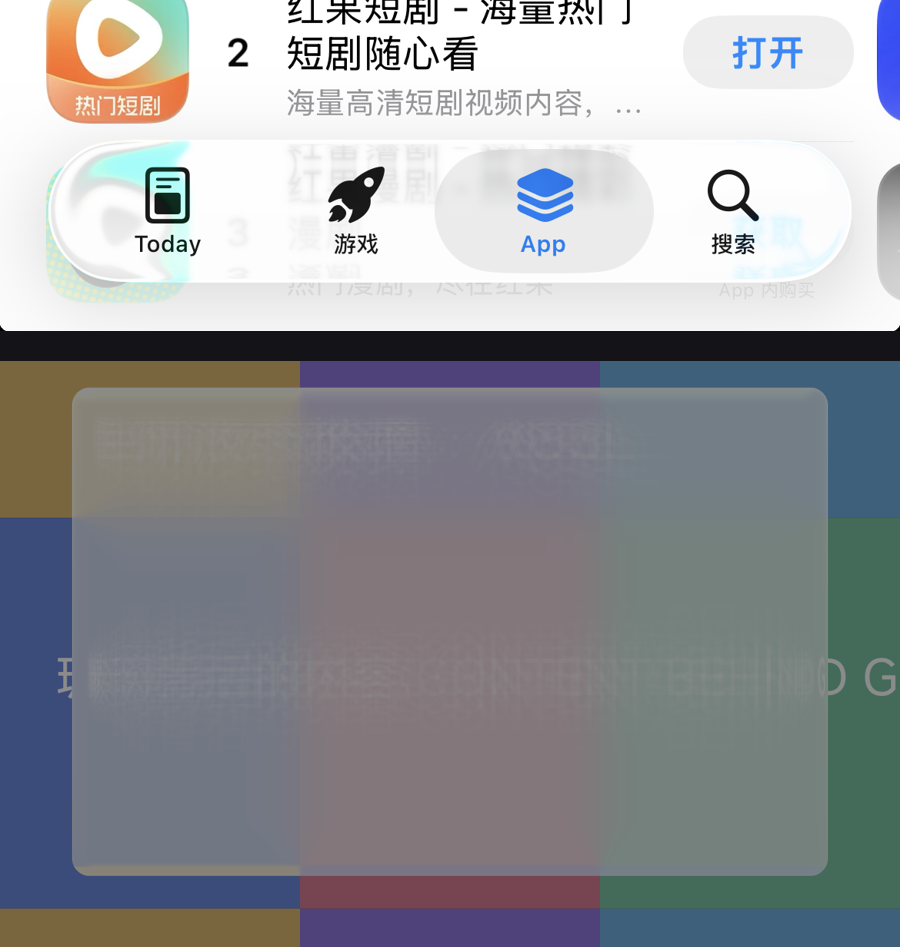
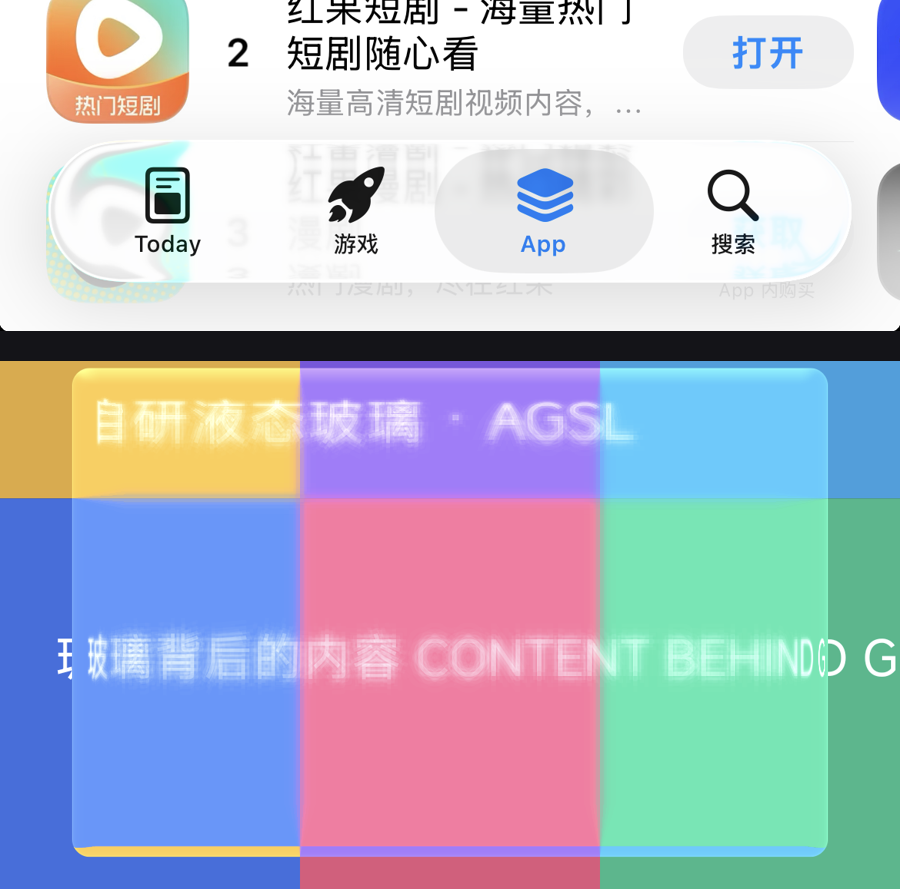
fix(glass): 四周对称折射(去顶部加权) + 内容可见(blur 核 3×→1× + frost 大降)
用户纠正三点：① 不是顶部亮（我加了错的顶部加权）——iOS 是**四周对称折射**；② 折射带以内**不折射、内容能看清**；
③ 我们**内容全糊没了**。修：去 topW（对称 rim）；模糊核最大半径 3×blur≈84px → blur（br=blur*0.55*e，
环 0.5/1.0/1.6×br）⇒ 内容可辨认；frost 0.62→0.16、去饱和 0.62→0.30。真机并排(glass-vs-ios.png)：
内容清晰可读 + 四周边缘对称折射/高光。

diff --git a/hosts/android/app/src/main/java/dev/proteus/layoutcore/runtime/GlassMaterial.java b/hosts/android/app/src/main/java/dev/proteus/layoutcore/runtime/GlassMaterial.java
@@ -70,35 +70,33 @@ public final class GlassMaterial {
             + "    float bend = circleMap(1.0 - ec) * refractDepthPx;\n"
             + "    bend *= smoothstep(1.0, 0.75, e);\n"                          // 内缘 C1 淡出（防环痕）
             + "    float2 sp = coord + n * bend;\n"                              // ★向外采样（卷边界外内容进边缘）
-            // ③ 模糊**按 e 键控**：边缘锐、中心糊（先折后糊）——加权核（归一保亮度）
-            + "    float br = max(blur, 0.0) * e;\n"
-            + "    half4 acc = content.eval(sp) * 0.12;\n"
-            + "    float w1 = 0.062, w2 = 0.036, w3 = 0.012;\n"                   // 中心+8向×(w1+w2+w3)：总权重 = 1.0（保亮度）
+            // ③ 模糊**按 e 键控**（边缘锐、中心糊）——★核最大半径 = blur（此前 3×blur≈84px ⇒ 内容全糊没）
+            + "    float br = max(blur, 0.0) * e * 0.55;\n"
+            + "    half4 acc = content.eval(sp) * 0.20;\n"
+            + "    float w1 = 0.058, w2 = 0.030, w3 = 0.012;\n"                   // 中心0.20 + 8向×(w1+w2+w3)=0.80：总权重 = 1.0
             + "    for (int k = 0; k < 8; k++) {\n"
             + "        float a = float(k) * 0.7853981;\n"
             + "        float2 dir = float2(cos(a), sin(a));\n"
-            + "        acc += content.eval(sp + dir * br) * w1;\n"
-            + "        acc += content.eval(sp + dir * (br * 2.0)) * w2;\n"
-            + "        acc += content.eval(sp + dir * (br * 3.0)) * w3;\n"
+            + "        acc += content.eval(sp + dir * (br * 0.5)) * w1;\n"
+            + "        acc += content.eval(sp + dir * br) * w2;\n"
+            + "        acc += content.eval(sp + dir * (br * 1.6)) * w3;\n"
             + "    }\n"
             + "    half4 col = acc;\n"
-            // ④ 磨砂去饱和 + 提彩 + 微对比
+            // ④ 去饱和（frost 冲淡色彩）+ 提彩 + 微对比
             + "    half lum = dot(col.rgb, half3(0.299, 0.587, 0.114));\n"
-            + "    col.rgb = mix(col.rgb, half3(lum), half(0.62));\n"
+            + "    col.rgb = mix(col.rgb, half3(lum), half(0.30));\n"
             + "    col.rgb = mix(half3(lum), col.rgb, half(saturation));\n"
             + "    col.rgb = (col.rgb - 0.5) * half(contrast) + 0.5;\n"
-            // ⑤ tint + 磨砂白 frost（iOS 更奶白去饱和）
+            // ⑤ tint + 少量磨砂白（★iOS 内容仍**可辨认**——frost 只轻提亮不透死）
             + "    col.rgb = mix(col.rgb, col.rgb * half3(tint.rgb) * 2.0, half(tint.a));\n"
-            + "    col.rgb = mix(col.rgb, half3(0.99, 0.995, 1.0), half(0.62 + tint.a * 0.3));\n"
-            // ⑥ 光照：Fresnel + 法线·光源（双瓣）；★顶部加权（光来自上方——侧/底几乎不亮 = iOS）
-            + "    float uvTop = clamp((coord.y - rectOrigin.y) / size.y, 0.0, 1.0);\n"
-            + "    float topW = 0.15 + 0.85 * (1.0 - uvTop);\n"
+            + "    col.rgb = mix(col.rgb, half3(0.99, 0.995, 1.0), half(0.16 + tint.a * 0.2));\n"
+            // ⑥ 光照：Fresnel + 法线·光源（双瓣）；**四周对称**（无顶部加权）
             + "    float cosI = inversesqrt(1.0 + slope * slope);\n"
             + "    float f0 = (1.5 - 1.0) / (1.5 + 1.0); f0 *= f0;\n"
             + "    float fres = f0 + (1.0 - f0) * pow(max(1.0 - cosI, 0.0), 5.0);\n"
             + "    float facing = max(dot(n, normalize(lightDir)), 0.0);\n"
             + "    float bevelMask = 1.0 - smoothstep(0.0, 0.35, e);\n"           // 亮带仅在外缘
-            + "    float rim = (pow(facing, 6.0) * specular + fres * 0.22) * bevelMask * topW;\n"
+            + "    float rim = (pow(facing, 6.0) * specular + fres * 0.12) * bevelMask;\n"
             + "    col.rgb = min(col.rgb + half3(rim), half3(1.0));\n"
             + "    col.a = 1.0;\n"
             + "    return col;\n"
